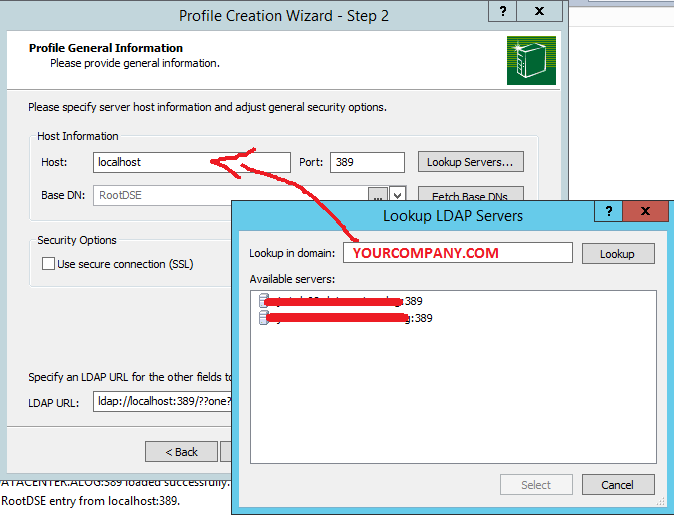
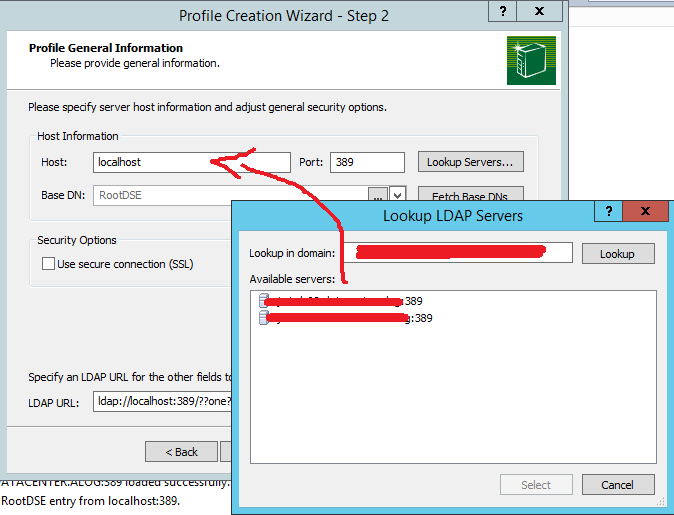
Ajuste no link das imagens

Changed region(s): [[0.4985, 0.435, 0.8101, 0.5592]]

diff --git a/_posts/blog/2016-10-13-configurando-sonar-ad.md b/_posts/blog/2016-10-13-configurando-sonar-ad.md
@@ -56,24 +56,24 @@ Instale o LDAP Browser dentro de uma máquina que esteja no domínio do Active D
 
 Abra ele e crie um novo profiler.
 
-Na configuração do host, clique em "Lookup Servers..." e copie o o domínio principal (YOURCOMPANY.COM no exemplo abaixo) e cole no campo "Host". *OBS: guarde esse domínio que você copiou, ele vai ser útil logo a frente.*
+Na configuração do host, clique em "Lookup Servers..." e copie um dos servidores (pode existir mais de um) que aparecerem na listagem conforme a imagem abaixo e cole no campo "Host". *OBS: guarde esse domínio que você copiou, ele vai ser útil logo a frente.*
 
-![Select Host]({{ site.url }}/images/2017-03-13-ldap/1.png)
+![Select Host]({{ site.url }}/images/2016-10-13-configurando-sonar-ad/1.png)
 
 No próximo passo, pra facilitar, selecione a opção "Currently logged on user" (OBS: é necessário que você esteja logado na máquina com um usuário do AD).
 
 
-![Current Logged User]({{ site.url }}/images/2017-03-13-ldap/2.png)
+![Current Logged User]({{ site.url }}/images/2016-10-13-configurando-sonar-ad/2.png)
 
 Após isso clique em "Finish".
 
 Clique no profile que você criou e em seguida vá para o campo de pesquisa (CTRL + F3). Nesse campo digite o login (na verdade pode ser nome, email, entre outros campos) do usuário que você deseja encontrar. Exemplo:
 
-![Pesquisa por usuário]({{ site.url }}/images/2017-03-13-ldap/3.png)
+![Pesquisa por usuário]({{ site.url }}/images/2016-10-13-configurando-sonar-ad/3.png)
 
 No resultado, selecione o usuário que você encontrou para ver seus atributos de forma detalhada:
 
-![Detalhes usuário]({{ site.url }}/images/2017-03-13-ldap/4.png)
+![Detalhes usuário]({{ site.url }}/images/2016-10-13-configurando-sonar-ad/4.png)
 
 Esses são os atributos do usuário no AD! Vamos utilizar alguns deles pra configurar o Sonar Qube.
 
